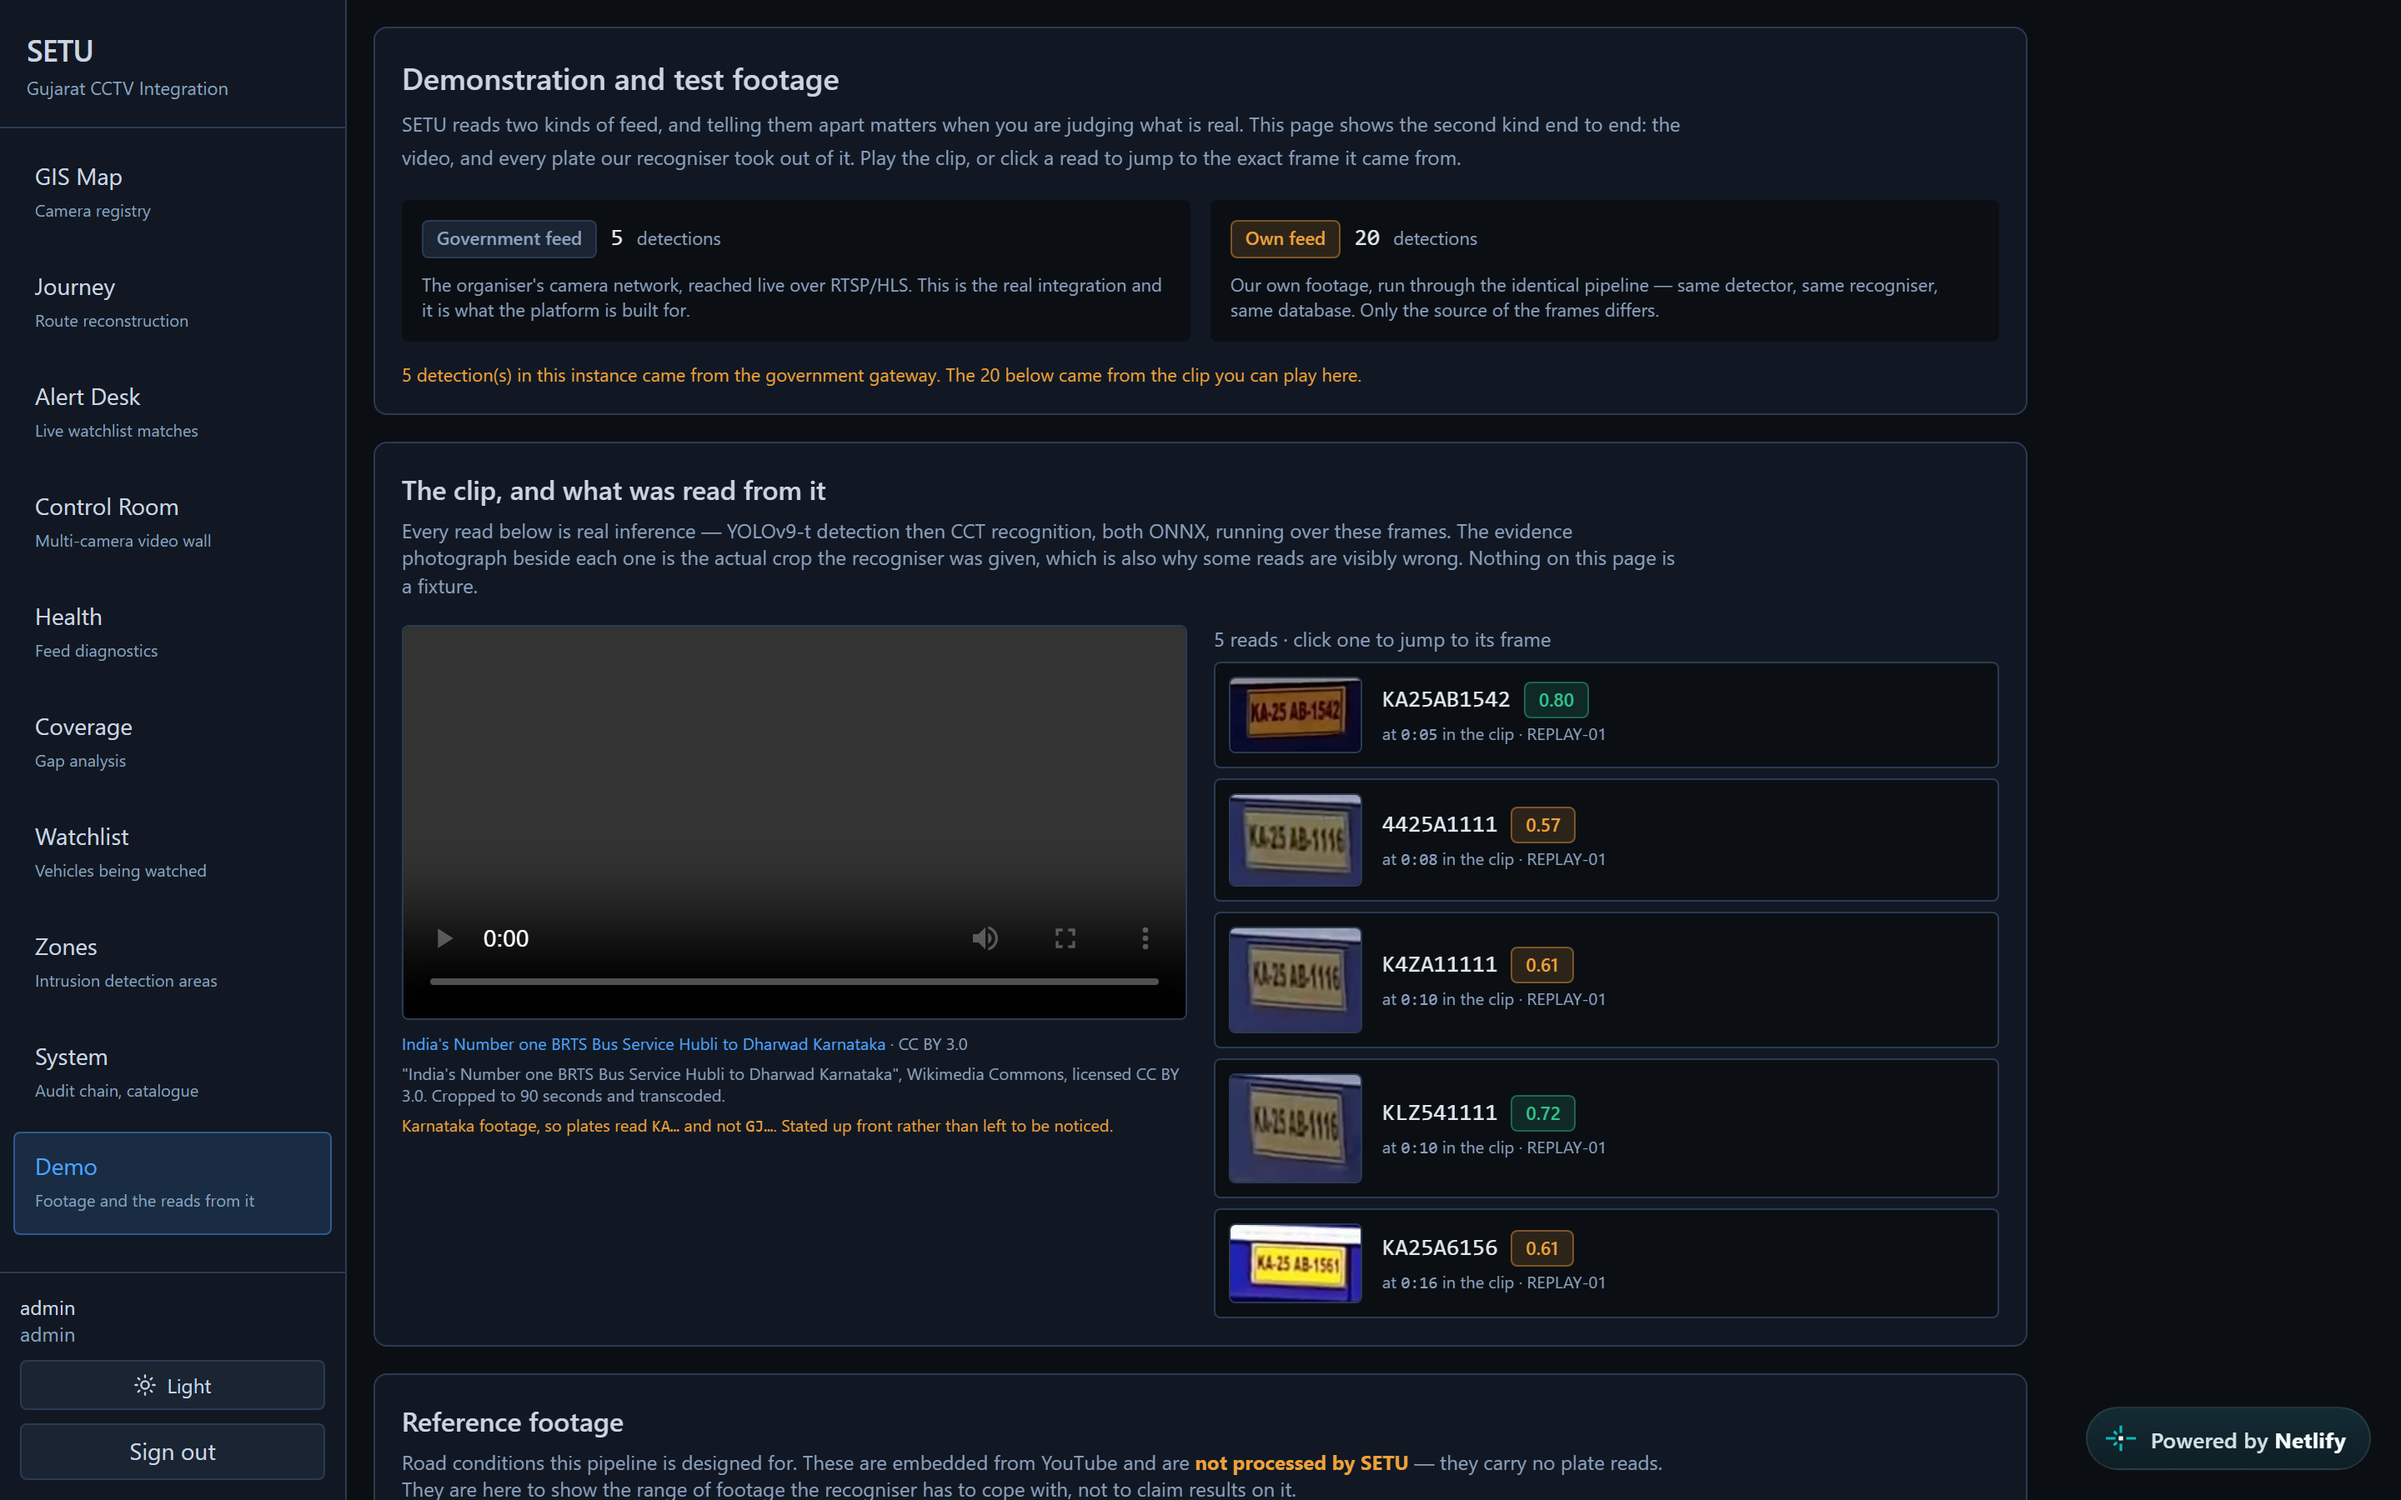
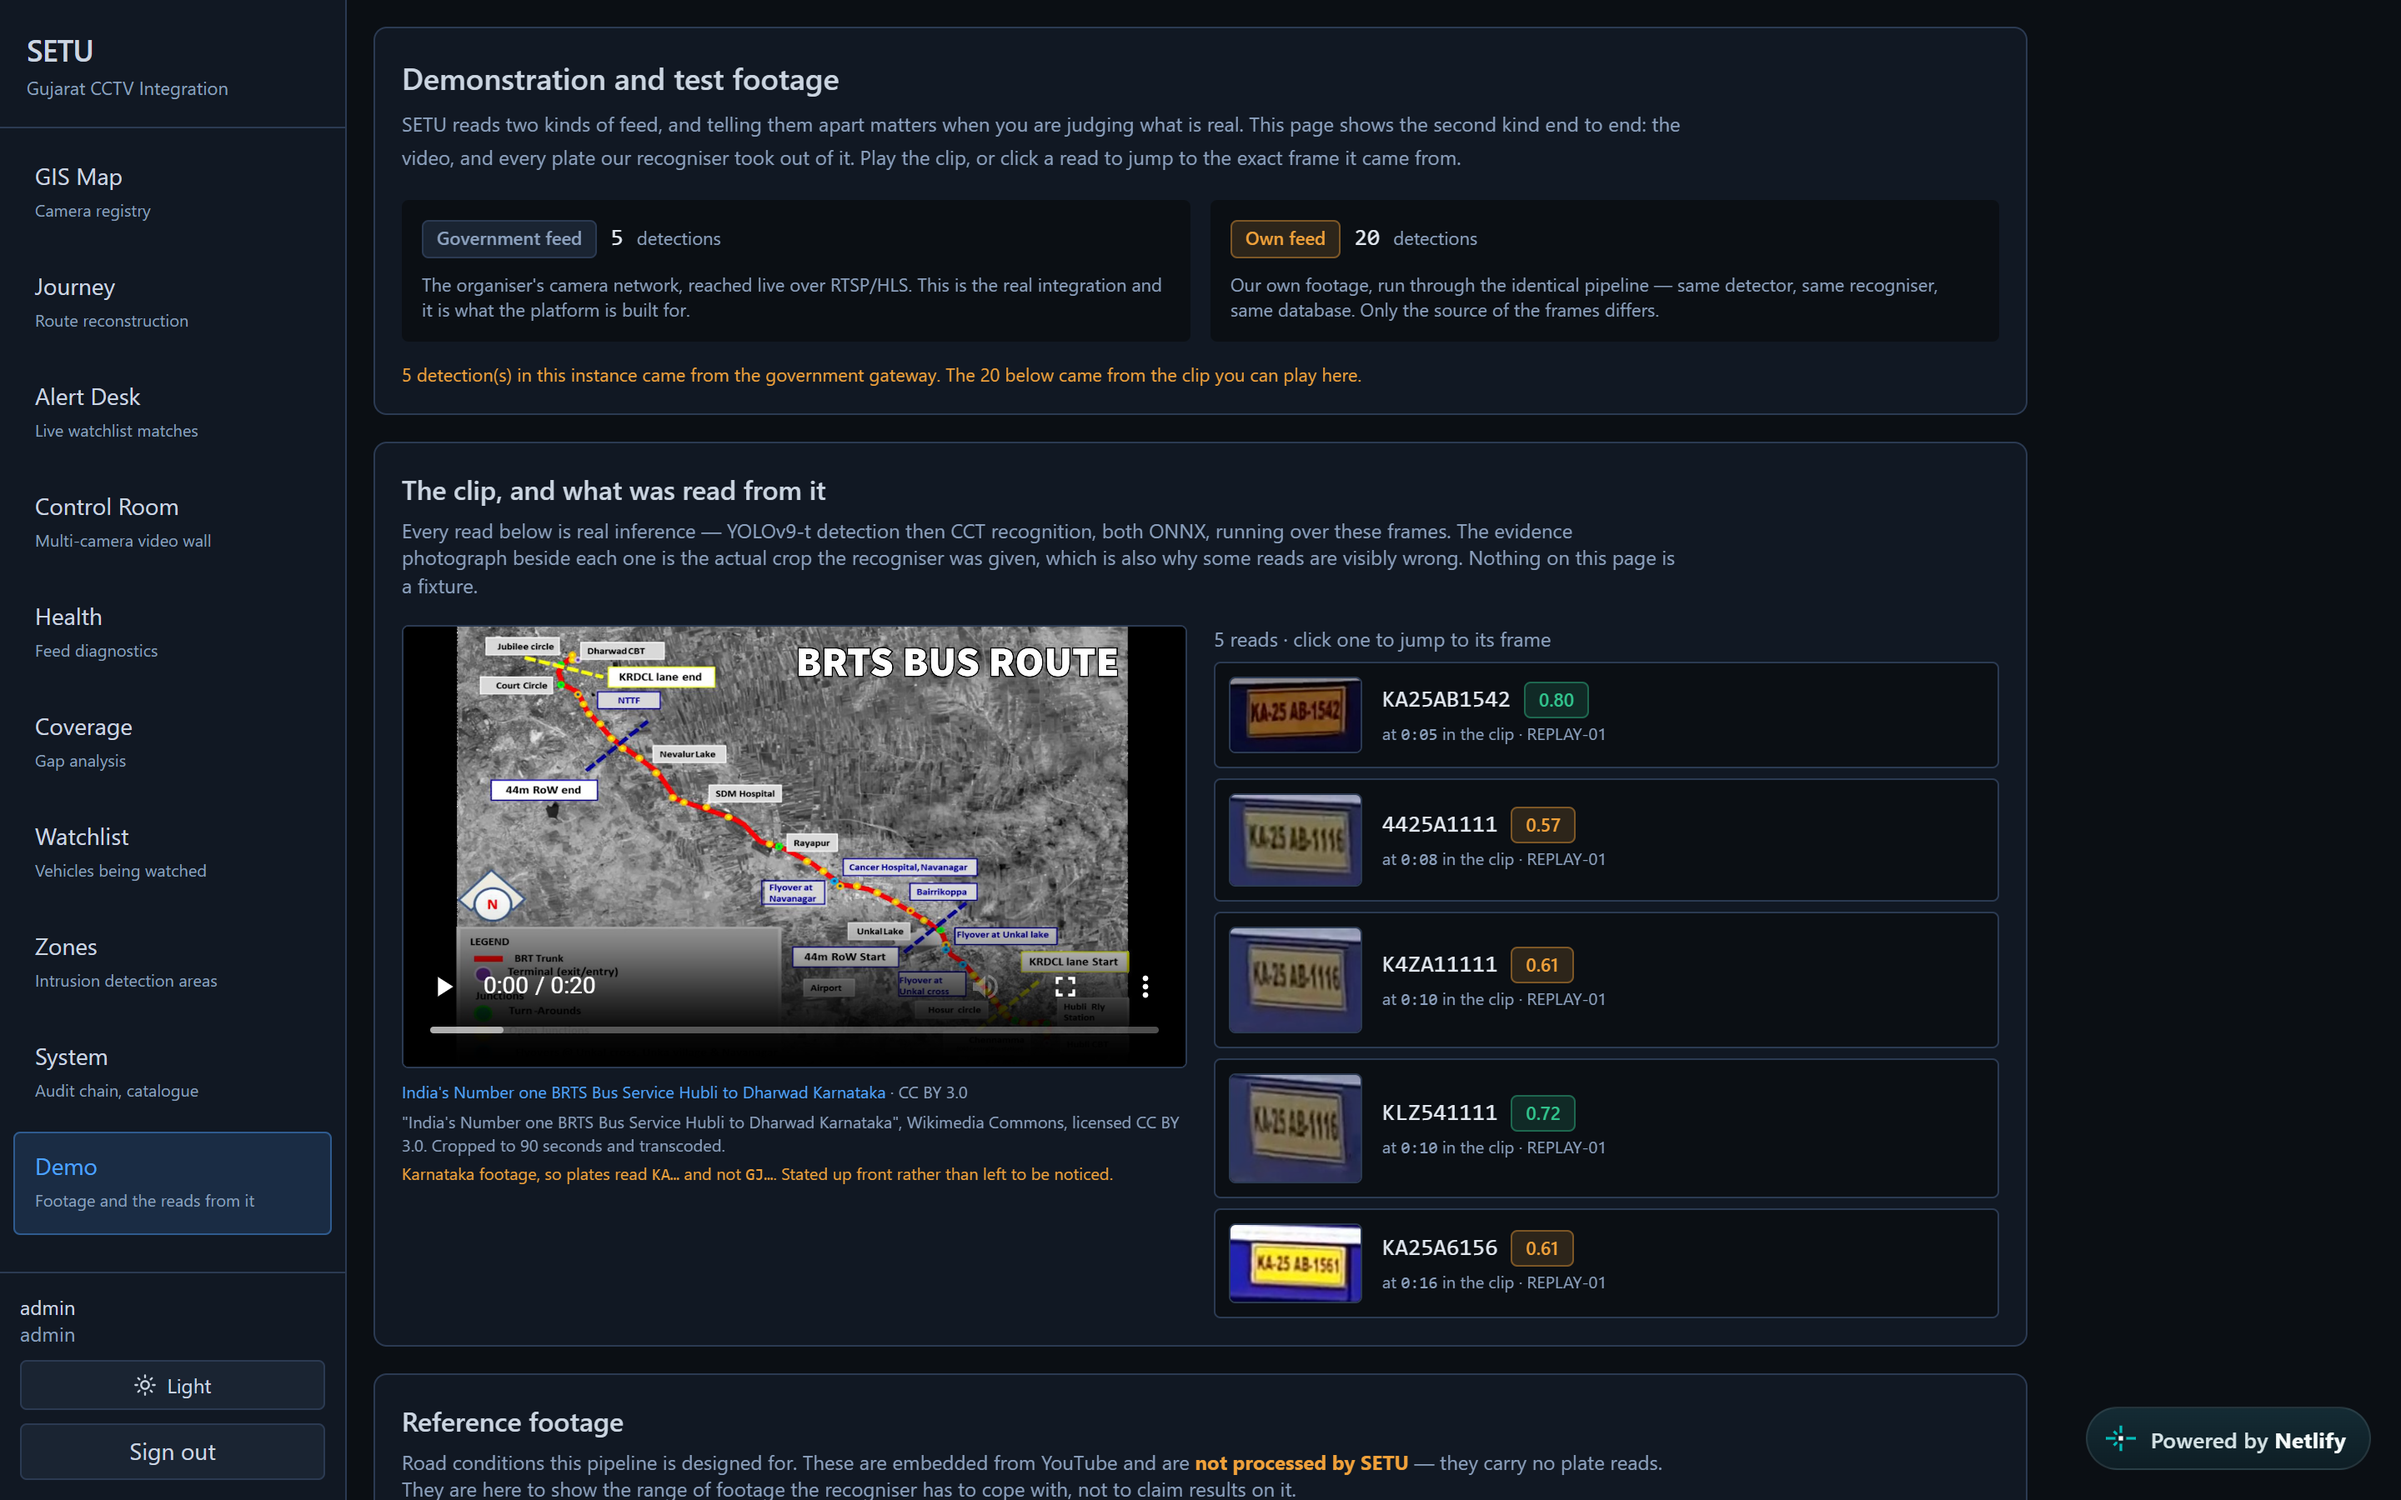
Screenshots with the video actually in them, and a README a reader can verify
Every video in every screenshot was black, and the note in the responsive audit blamed
Playwright bundled Chromium for shipping without H.264. That was true and it was not the
end of the sentence: Playwright can drive the installed browser. Real Edge reports
h264="probably" where the bundled build reports an empty string, so the captures now run
through it and the pictures are pictures.

Control Room and Zones are recaptured against the REPLAY cameras, which stream from our
own API. The government estate began timing out on its login this morning -- the same
sign-in page, the POST hanging after a redirect -- so its tiles cannot be captured live
at present, and I am not going to stage something that looks like they were.

That turned out better than intended. The Control Room capture caught a genuine upstream
outage and the console handles it exactly as it should: it names the minute contact was
lost, says live tiles for those cameras will not play, and adds the sentence that matters
to an investigator -- recorded evidence is unaffected because it is already in our own
records. Most submissions show only the happy path. This one shows the system telling an
operator which of two very different things is happening.

The Zones capture now shows what the page is for: a polygon over the carriageway of the
camera own view, with real past detections plotted under it, and the frame size read from
what the pipeline measured rather than typed.
[…]

Changed region(s): [[0.1562, 0.4044, 0.5, 0.8089]]

diff --git a/README.md b/README.md
@@ -26,6 +26,29 @@ vehicle.*
 
 ---
 
+## Walk it yourself, in five minutes
+
+Sign in at [setu-gujarat.netlify.app](https://setu-gujarat.netlify.app). Each step below
+names what you should see, so nothing here has to be taken on trust.
+
+| | Do this | You should see |
+|---|---|---|
+| **1** | Open **GIS Map** | The camera registry. A camera we can place only to a district is drawn as a **circle**, not a pin |
+| **2** | **Journey** → `KA25AB1542`, dates covering August–September, any purpose, *Trace vehicle* | **4 hops, 413 km.** Read the two lines the page prints unasked: cameras excluded for having no coordinate, and cameras that saw nothing, labelled *a coverage gap, not an absence of the vehicle* |
+| **3** | Press **Export signed evidence (PDF)** | The same reconstruction re-run server-side, signed, with the evidence crops embedded |
+| **4** | **Alert Desk** | Watchlist matches and zone intrusions together — each with the crop, camera, time, confidence, and the listing that authorised it |
+| **5** | **Zones** → select `REPLAY-01` | A polygon drawn on that camera's own view, with real past detections plotted on it |
+| **6** | **System** → verify the audit chain | Your search from step 2 is in it, with the purpose you typed |
+| **7** | Sign out, sign in as **operator**, try to add a watchlist entry | `403 adding a watchlist entry requires admin`. The API refuses it; the interface is not merely hiding a button |
+
+Step 7 is the one worth doing. Authorising surveillance and conducting it are different
+responsibilities, and this is where you can check that the separation is real.
+
+> The console runs on a free tier that sleeps when idle, so the first page load can take
+> up to a minute. Every request after that is normal speed.
+
+---
+
 ## Solution model
 
 **Hybrid**: Model 1 (centralised registry and GIS — mandatory) + Model 3 (federation
@@ -280,12 +303,26 @@ box **centres** inside the region raises an alert.
 
 ![Zones](docs/screenshots/13-zones.png)
 
+*The green polygon is drawn over the carriageway of that camera's own view, and the blue
+dots are places a vehicle has actually been detected — so the region is placed against
+evidence rather than a guess. The frame size beside it, 2560×1440, is read from what the
+pipeline measured on this camera rather than typed, because a wrong reference size does
+not fail loudly: it silently places every corner against the wrong frame.*
+
 **This is the analytic that works on the government estate today**, because it needs a
 vehicle box rather than a readable plate — see limitation 12.
 
 **Control Room** → up to six cameras at once, each labelled by whose feed it is.
 
 ![Control Room](docs/screenshots/12-control-room.png)
+
+*This capture happens to show the more useful case. The government estate was
+unreachable at the moment it was taken, and the console says so precisely — naming the
+time contact was lost, stating that live tiles for those cameras will not play, and
+adding the sentence that matters to an investigator: **recorded evidence is unaffected,
+because it is already in our own records.** An outage on infrastructure we do not own is
+not the same event as our platform failing, and a control room that cannot tell an
+operator which one is happening is a control room that gets ignored.*
 
 ### Job 3 — Plan and account for the estate
 
